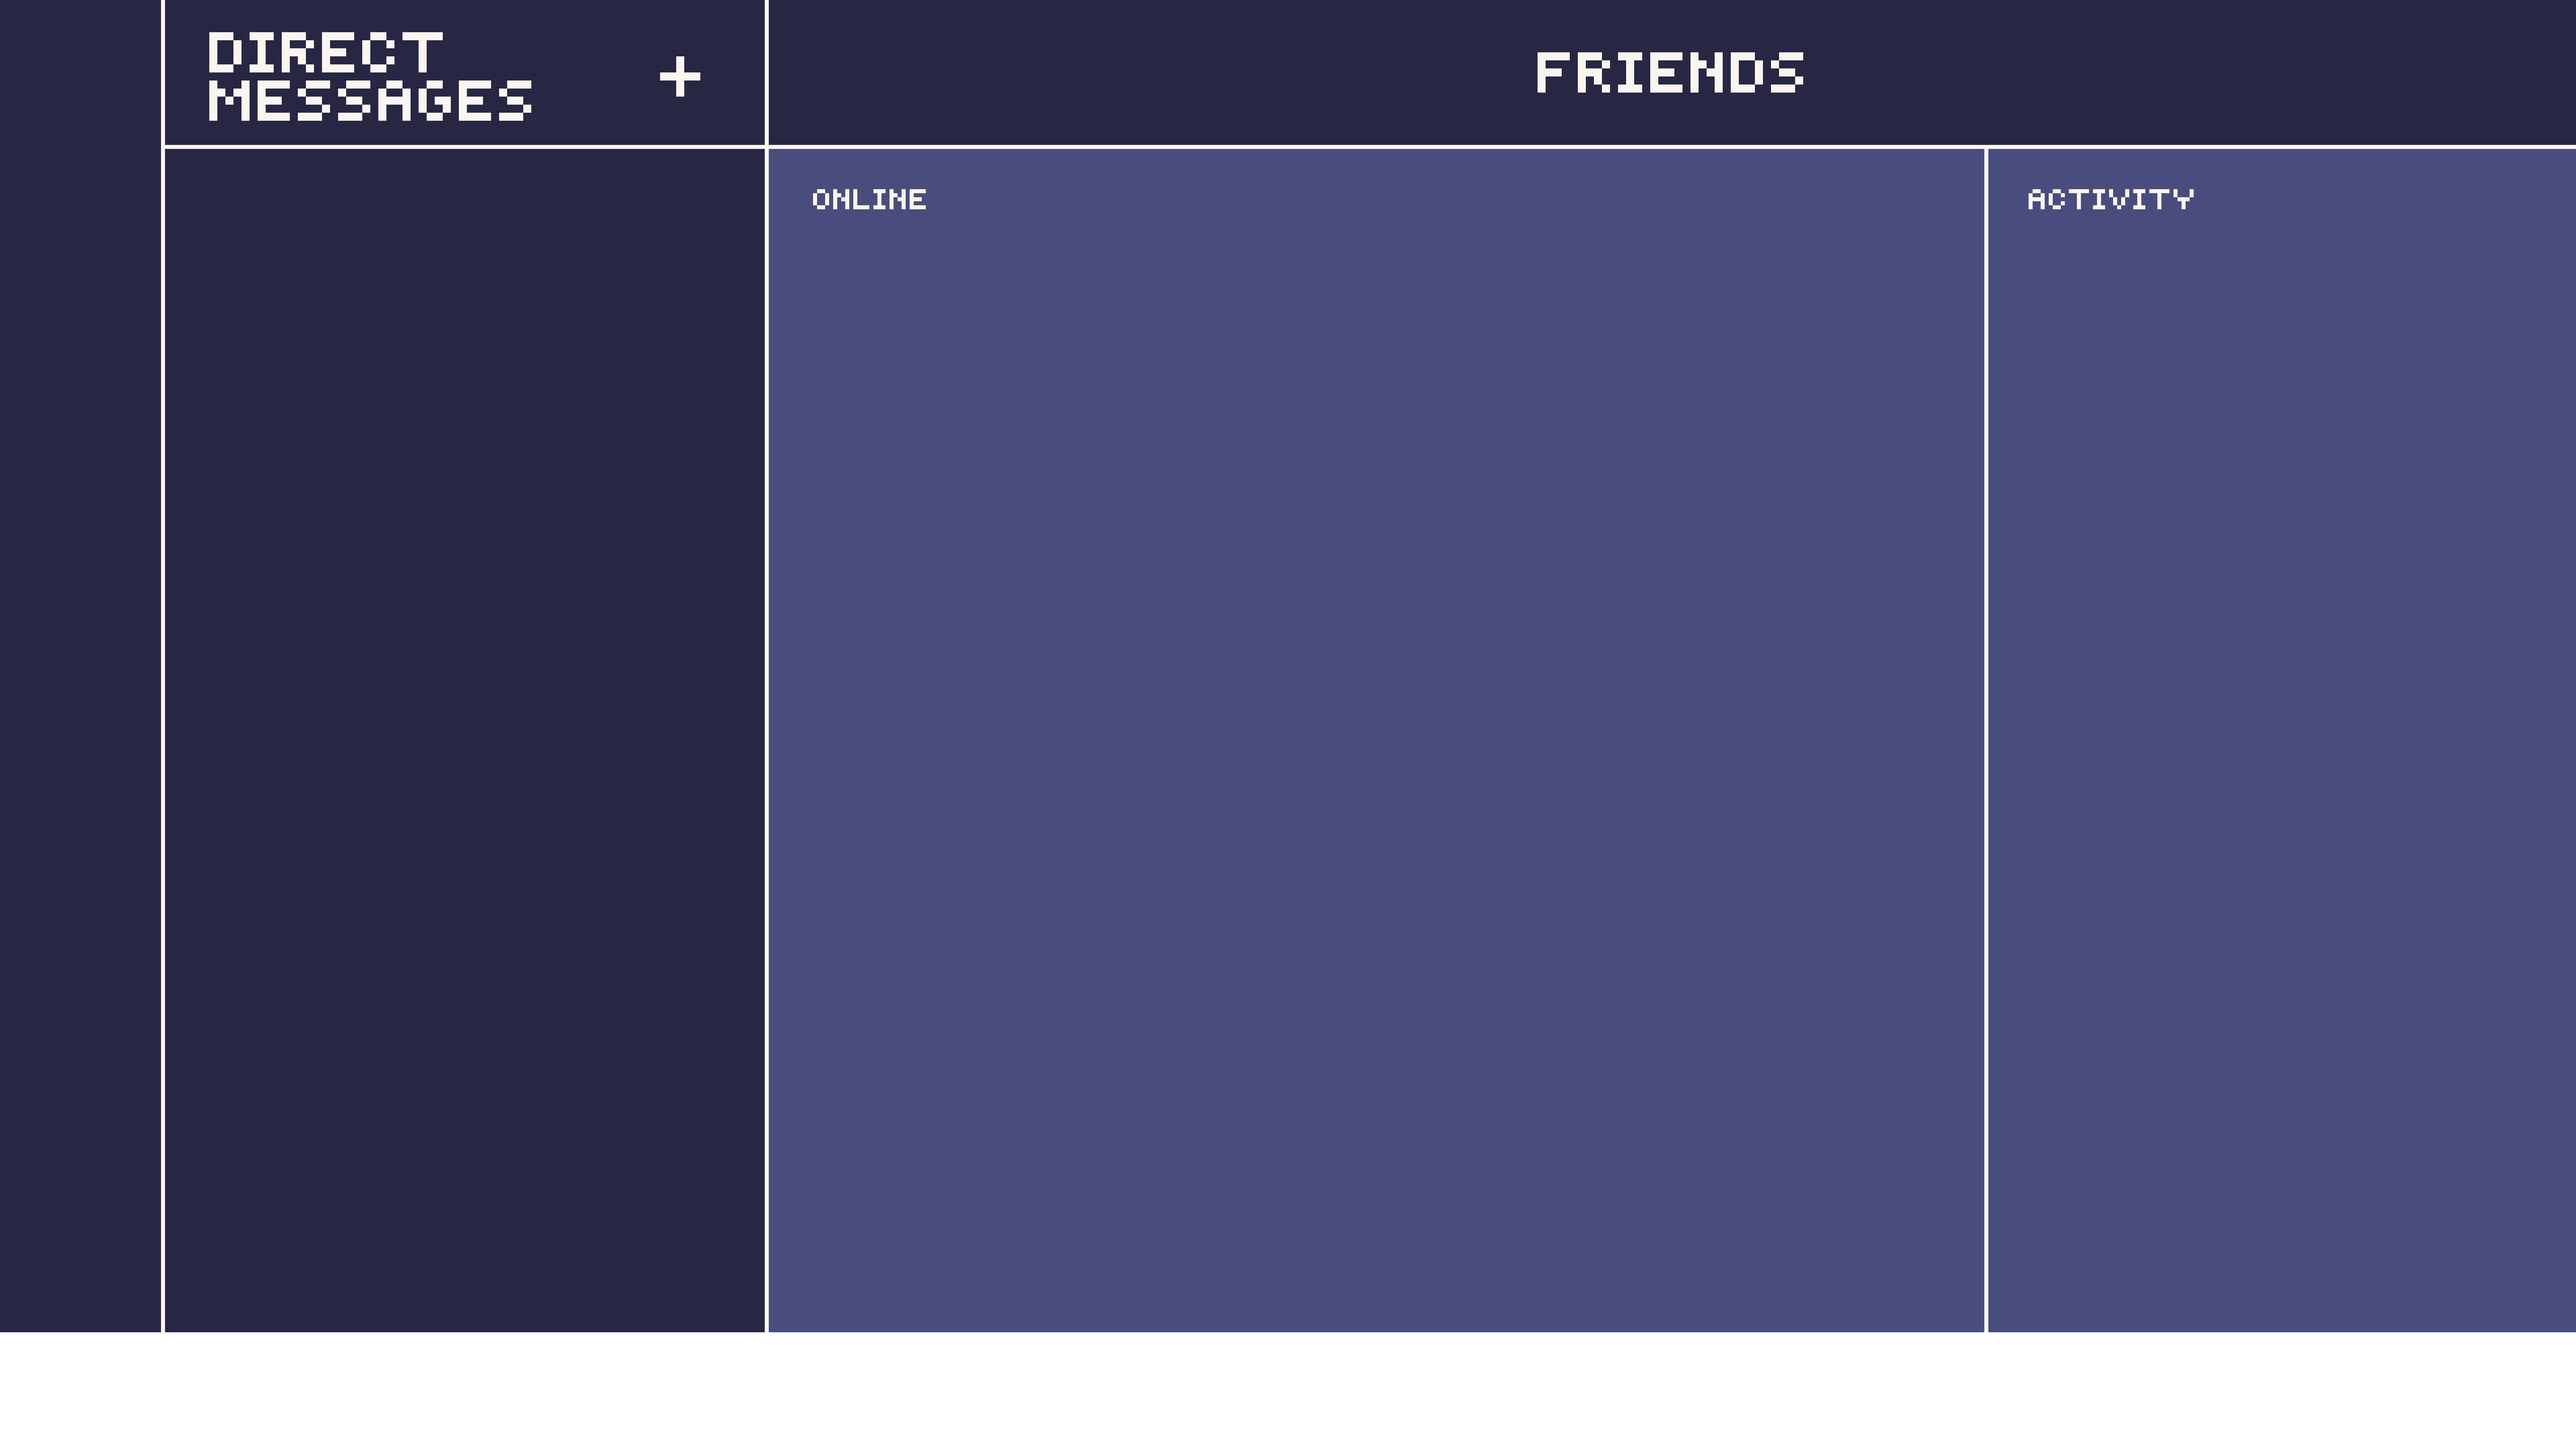
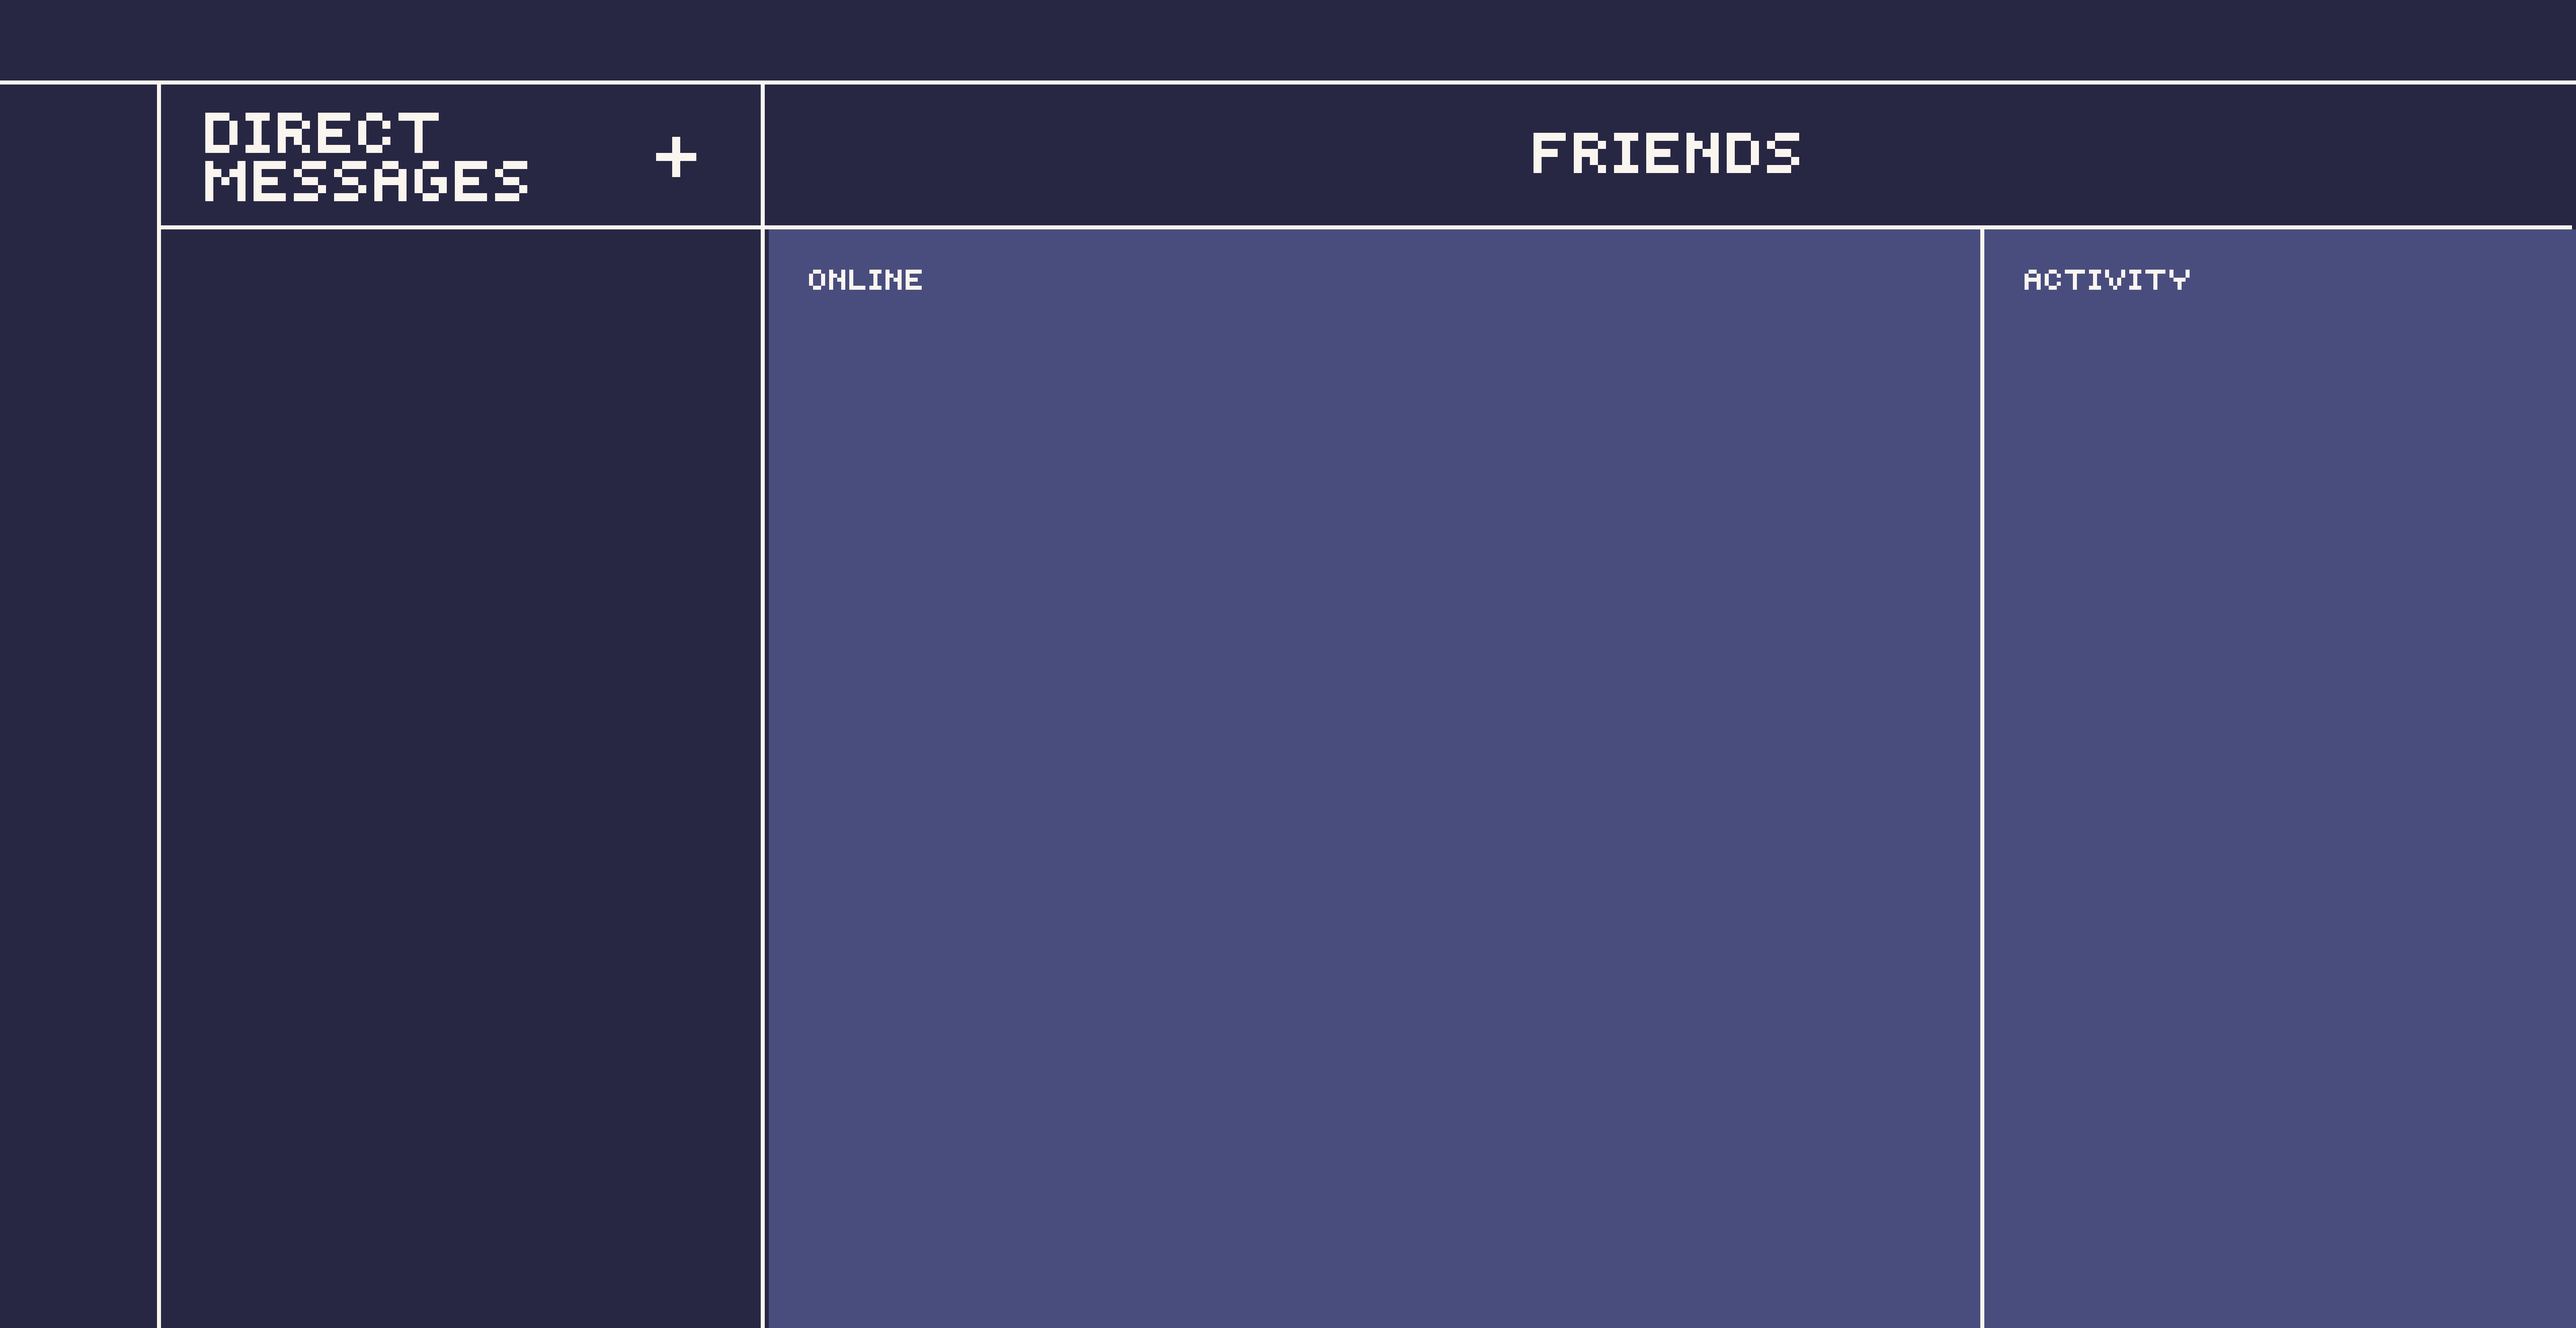
open and close now working for discord

diff --git a/frontend/src/discord/Discord.jsx b/frontend/src/discord/Discord.jsx
@@ -1,19 +1,30 @@
+import { Button } from '@mui/material'
 import './Discord.css'
 
 export default function Discord(props) {
   return (
     <div>
-      <div className='page-container'>
-        {props.isDiscordOpen && (
-          <div>
-            {/* friendpage (homepage) */}
-            <img
-              src='assets/discord/discord-friendpage.png'
-              alt="Discord Friend Page"
-              className="discord-page"
-            ></img>
-          </div>
-        )}
+      <div className='discord-container'>
+        <div className='page-container'>
+          {props.isDiscordOpen && (
+            <div>
+              {/* friendpage (homepage) */}
+              {/* should make interchangeable with other pages */}
+              <img
+                src='assets/discord/discord-friendpage.png'
+                alt="Discord Friend Page"
+                className="discord-page"
+              ></img>
+              <Button onClick={props.viewDiscord}>
+                <img
+                  src='assets/discord/discord-x.png'
+                  alt='Discord Close Button'
+                  className='page-close-btn'
+                ></img>
+              </Button>
+            </div>
+          )}
+        </div>
       </div>
     </div>
   )

diff --git a/frontend/src/discord/Discord.css b/frontend/src/discord/Discord.css
@@ -1,4 +1,4 @@
-.page-container {
+.discord-container {
   position: absolute;
   bottom: 10vh;
   left: 0;
@@ -8,10 +8,26 @@
   height: 90vh;
 }
 
+.page-container {
+  position: relative;
+  left: 0;
+  right: 0;
+  display: flex;
+  justify-content: center;
+  height: 90vh;
+}
 
 .discord-page {
   display: flex;
   height: 100%;
+  z-index: 2;
+}
+
+.page-close-btn {
+  display: flex;
+  height: 3vh;
+  right: 0;
+  width: auto;
 }
 
 .discord-button {

diff --git a/frontend/src/App.jsx b/frontend/src/App.jsx
@@ -19,7 +19,7 @@ function App() {
   return (
     <div>
       <Notes viewNotes={viewNotes} isNotesOpen={isNotesOpen}/>
-      <Taskbar viewNotes={viewNotes} />
+      <Taskbar viewNotes={viewNotes} viewDiscord={viewDiscord} />
       <Discord viewDiscord={viewDiscord} isDiscordOpen={isDiscordOpen}/>
     </div>
   )
